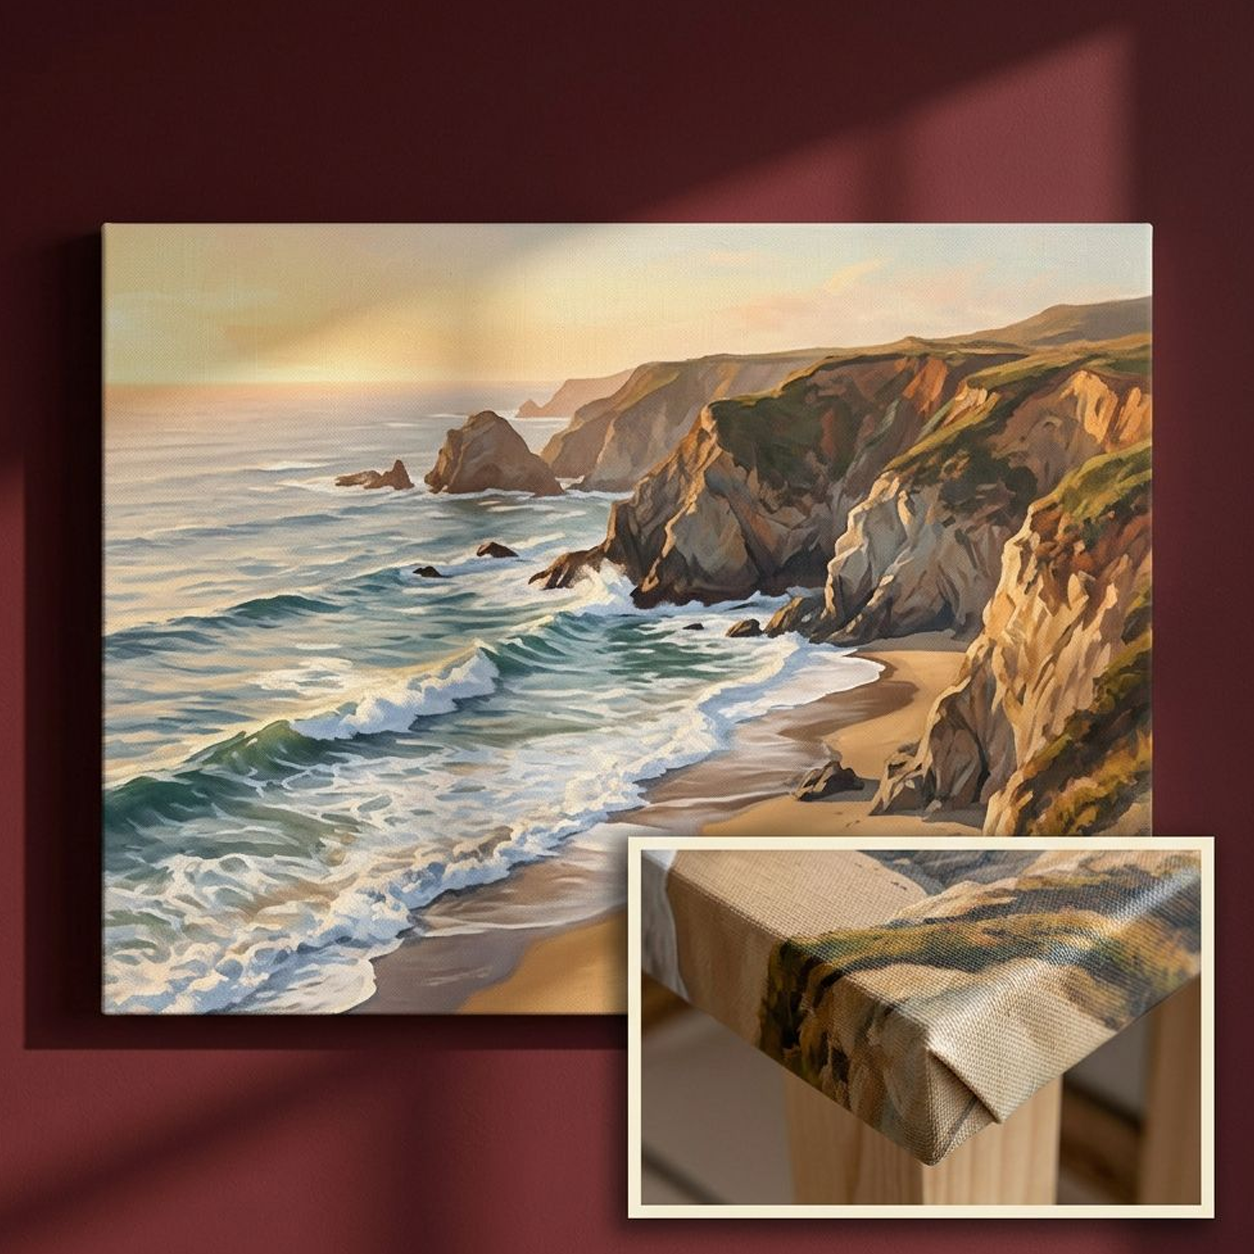
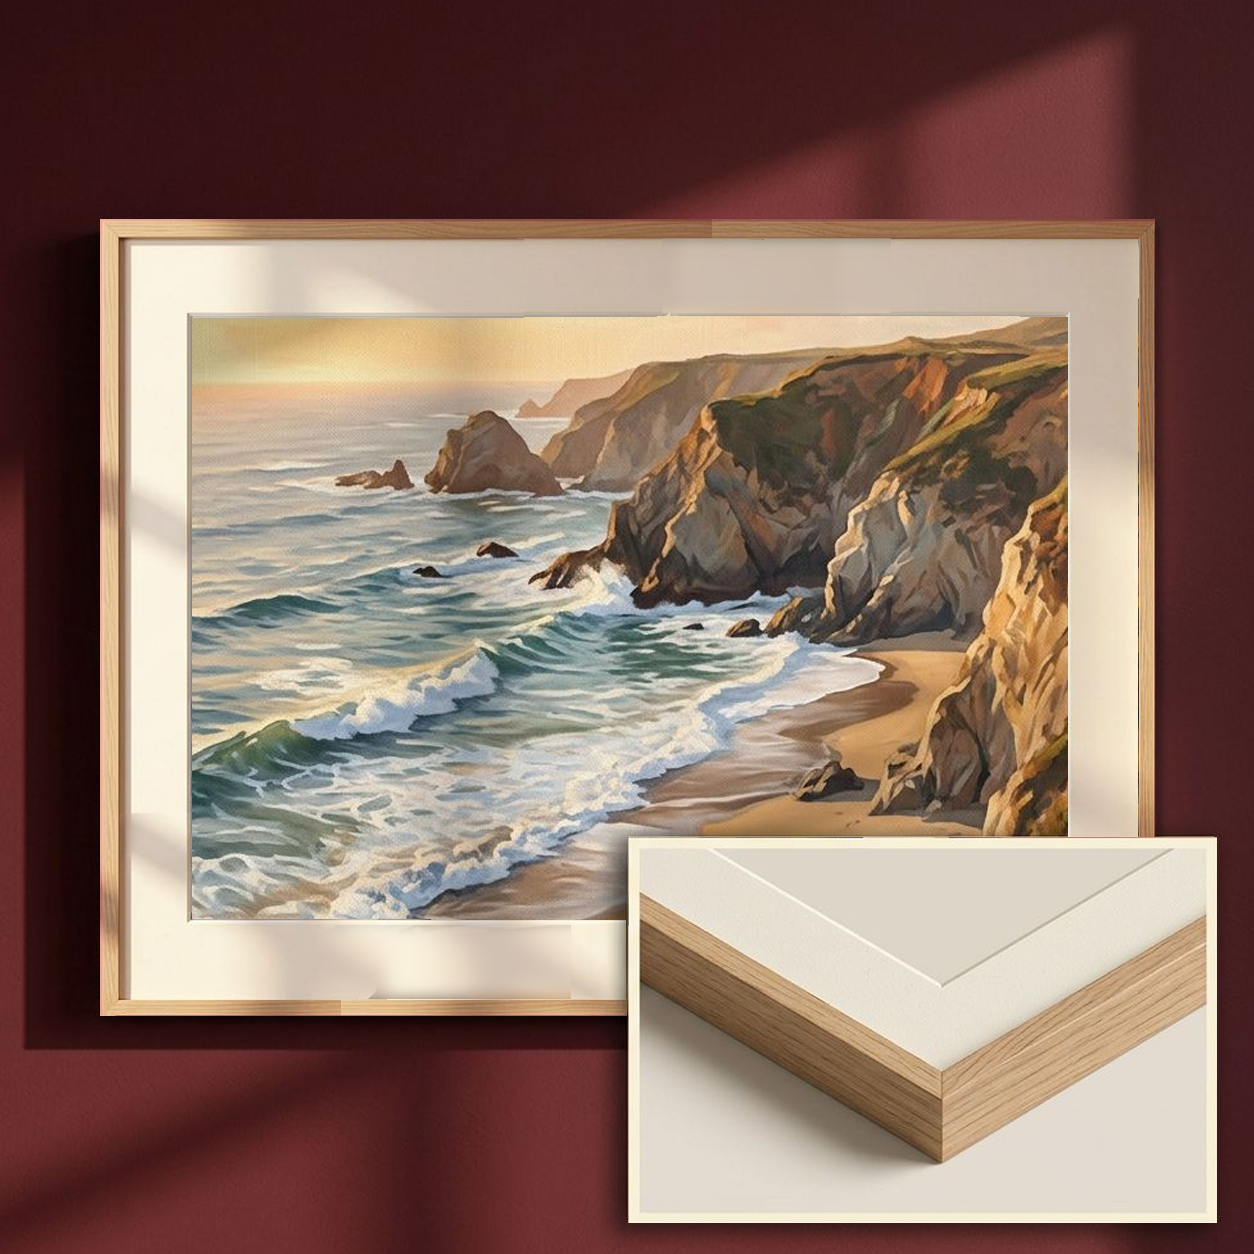
fix(gift): replace landscape matted scene with supplied frame and mat masks

Changed region(s): [[0.0622, 0.1555, 0.9952, 0.9952]]

diff --git a/public/gift-wizard/backend.next.ts b/public/gift-wizard/backend.next.ts
@@ -20,7 +20,7 @@ export function assertSession(v:unknown):asserts v is SessionView {
  if(!['none','checkout_open','awaiting_artwork','approved','with_lab','refund_requested','refunded','cancelled','needs_attention'].includes(v.order.state))throw new GiftApiError('invalid_order_state',0);
 }
 // Only the replacement masters/masks from litenco product image alphas 2-assets.zip.
-const approvedSceneFamilies:Record<string,string>={'fine-art-portrait':'fine_art','fine-art-landscape':'fine_art','premium-square':'premium','premium-landscape':'premium','classic-framed-square':'framed','classic-framed-portrait':'framed','gallery-canvas-portrait':'canvas','framed-canvas-portrait':'framed_canvas','matted-frame-portrait':'matted','fine-art-square':'fine_art','premium-fine-art':'premium','classic-framed':'framed','matted-frame-square':'matted','gallery-canvas-square':'canvas','gallery-canvas-landscape':'canvas','matted-frame-landscape':'canvas','framed-canvas':'framed_canvas','ceramic-mug':'mug','greeting-card':'card'};
+const approvedSceneFamilies:Record<string,string>={'fine-art-portrait':'fine_art','fine-art-landscape':'fine_art','premium-square':'premium','premium-landscape':'premium','classic-framed-square':'framed','classic-framed-portrait':'framed','gallery-canvas-portrait':'canvas','framed-canvas-portrait':'framed_canvas','matted-frame-portrait':'matted','fine-art-square':'fine_art','premium-fine-art':'premium','classic-framed':'framed','matted-frame-square':'matted','gallery-canvas-square':'canvas','gallery-canvas-landscape':'canvas','matted-frame-landscape':'matted','framed-canvas':'framed_canvas','ceramic-mug':'mug','greeting-card':'card'};
 export function isApprovedScene(productId:string,sceneId:unknown){return typeof sceneId==='string'&&approvedSceneFamilies[sceneId]===productId.split(':')[0]}
 export const integrationBlocks=Object.freeze(['sandbox_final_release','mug_card_profiles'] as const);
 export class GiftBackend {

diff --git a/public/gift-wizard/backend.next.js b/public/gift-wizard/backend.next.js
@@ -35,7 +35,7 @@ export function assertSession(v) {
         throw new GiftApiError('invalid_order_state', 0);
 }
 // Only the replacement masters/masks from litenco product image alphas 2-assets.zip.
-const approvedSceneFamilies = { 'fine-art-portrait': 'fine_art', 'fine-art-landscape': 'fine_art', 'premium-square': 'premium', 'premium-landscape': 'premium', 'classic-framed-square': 'framed', 'classic-framed-portrait': 'framed', 'gallery-canvas-portrait': 'canvas', 'framed-canvas-portrait': 'framed_canvas', 'matted-frame-portrait': 'matted', 'fine-art-square': 'fine_art', 'premium-fine-art': 'premium', 'classic-framed': 'framed', 'matted-frame-square': 'matted', 'gallery-canvas-square': 'canvas', 'gallery-canvas-landscape': 'canvas', 'matted-frame-landscape': 'canvas', 'framed-canvas': 'framed_canvas', 'ceramic-mug': 'mug', 'greeting-card': 'card' };
+const approvedSceneFamilies = { 'fine-art-portrait': 'fine_art', 'fine-art-landscape': 'fine_art', 'premium-square': 'premium', 'premium-landscape': 'premium', 'classic-framed-square': 'framed', 'classic-framed-portrait': 'framed', 'gallery-canvas-portrait': 'canvas', 'framed-canvas-portrait': 'framed_canvas', 'matted-frame-portrait': 'matted', 'fine-art-square': 'fine_art', 'premium-fine-art': 'premium', 'classic-framed': 'framed', 'matted-frame-square': 'matted', 'gallery-canvas-square': 'canvas', 'gallery-canvas-landscape': 'canvas', 'matted-frame-landscape': 'matted', 'framed-canvas': 'framed_canvas', 'ceramic-mug': 'mug', 'greeting-card': 'card' };
 export function isApprovedScene(productId, sceneId) { return typeof sceneId === 'string' && approvedSceneFamilies[sceneId] === productId.split(':')[0]; }
 export const integrationBlocks = Object.freeze(['sandbox_final_release', 'mug_card_profiles']);
 export class GiftBackend {

diff --git a/next.config.js b/next.config.js
@@ -71,6 +71,8 @@ const nextConfig = {
       './public/gift-wizard/mockup-scenes/inventory.next.json',
       './public/gift-wizard/mockup-scenes/matted-frame-landscape/matted frame landscape - art bw.png',
       './public/gift-wizard/mockup-scenes/matted-frame-landscape/matted frame landscape - background bw.png',
+      './public/gift-wizard/mockup-scenes/matted-frame-landscape/matted frame landscape - frame bw.png',
+      './public/gift-wizard/mockup-scenes/matted-frame-landscape/matted frame landscape - matte bw.png',
       './public/gift-wizard/mockup-scenes/matted-frame-landscape/matted frame landscape.png',
       './public/gift-wizard/mockup-scenes/matted-frame-landscape/scene.next.json',
       './public/gift-wizard/mockup-scenes/matted-frame-portrait/matted frame portrait art bw.png',
